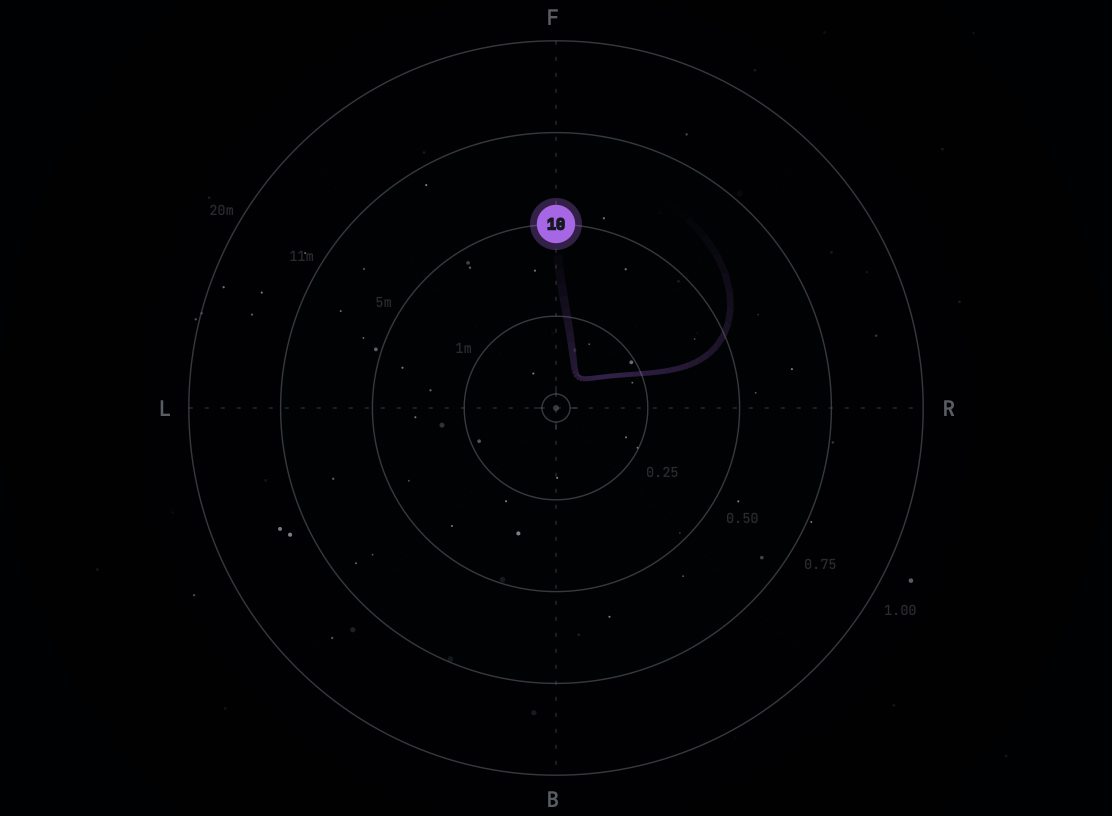
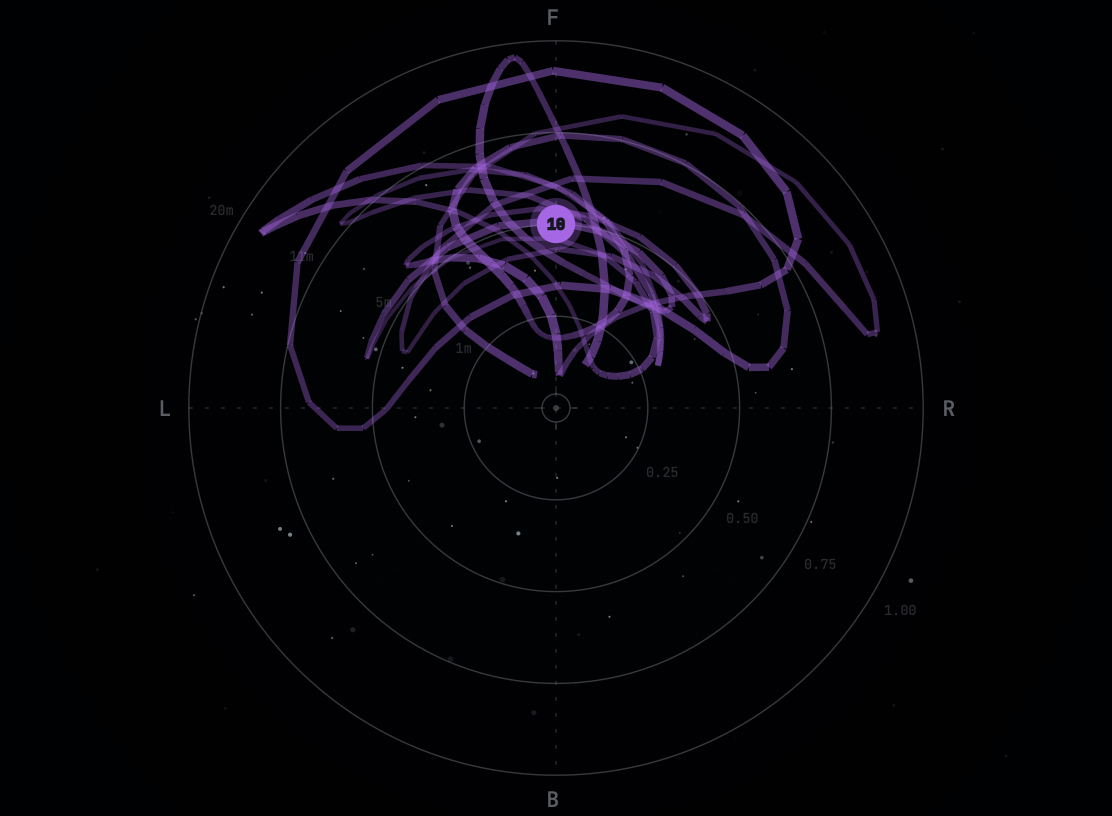
fix(screenshots): lengthen Random trail + move Triangle to Tap 3
Random trajectory was rendering a ~0.67s window, which read as a tiny
wisp next to the deterministic shapes. In screenshot mode (gated by
drawFullTrajectoryForScreenshot) widen the time window to ±4s, flatten
the proximity decay to 0, and add a base alpha so the full sampled
path is visible as a continuous sprawl. Sample count doubled to 240 so
the longer window stays smooth.

Triangle reassigned from Tap 4 to Tap 3 per user spec.

diff --git a/Source/PluginEditor.cpp b/Source/PluginEditor.cpp
@@ -1161,9 +1161,14 @@ void SpatialMapComponent::paint (juce::Graphics& g)
             // Symmetric time-windowed trail: look-back + look-ahead centered on randomTime
             // Unlike deterministic shapes (which outline a compact closed loop at 0.05 base alpha),
             // Random's sprawling path needs zero base alpha — only the proximity glow near the dot.
-            constexpr int kRandomSamples = 120;
-            constexpr float kHalfWindow = 1.0f;     // ±1s from current time (2s total)
-            constexpr float kDecayRate = 3.0f;       // glow visible within ~±0.33s of dot
+            // In screenshot mode (drawFullTrajectoryForScreenshot), widen the
+            // window and flatten the decay so the still frame matches the
+            // visual weight of the deterministic shapes.
+            constexpr int kRandomSamples = 240;
+            const float kHalfWindow = drawFullTrajectoryForScreenshot ? 4.0f : 1.0f;
+            const float kDecayRate  = drawFullTrajectoryForScreenshot ? 0.0f : 3.0f;
+            const float kBaseAlpha  = drawFullTrajectoryForScreenshot ? 0.25f : 0.0f;
+            const float kPeakAlpha  = drawFullTrajectoryForScreenshot ? 0.35f : 0.60f;
 
             struct RndPathPoint { juce::Point<float> px; float elDeg; float timeOffset; };
             RndPathPoint rndPath[kRandomSamples];
@@ -1196,7 +1201,7 @@ void SpatialMapComponent::paint (juce::Graphics& g)
                 // Brightness: proximity to current time (timeOffset == 0)
                 float proximity = 1.0f - std::abs (p0.timeOffset) * kDecayRate;
                 proximity = juce::jlimit (0.0f, 1.0f, proximity);
-                float glowAlpha = proximity * 0.60f;
+                float glowAlpha = kBaseAlpha + proximity * kPeakAlpha;
 
                 // Elevation encoding: opacity + thickness (same as other shapes)
                 float avgEl = (p0.elDeg + p1.elDeg) * 0.5f;
